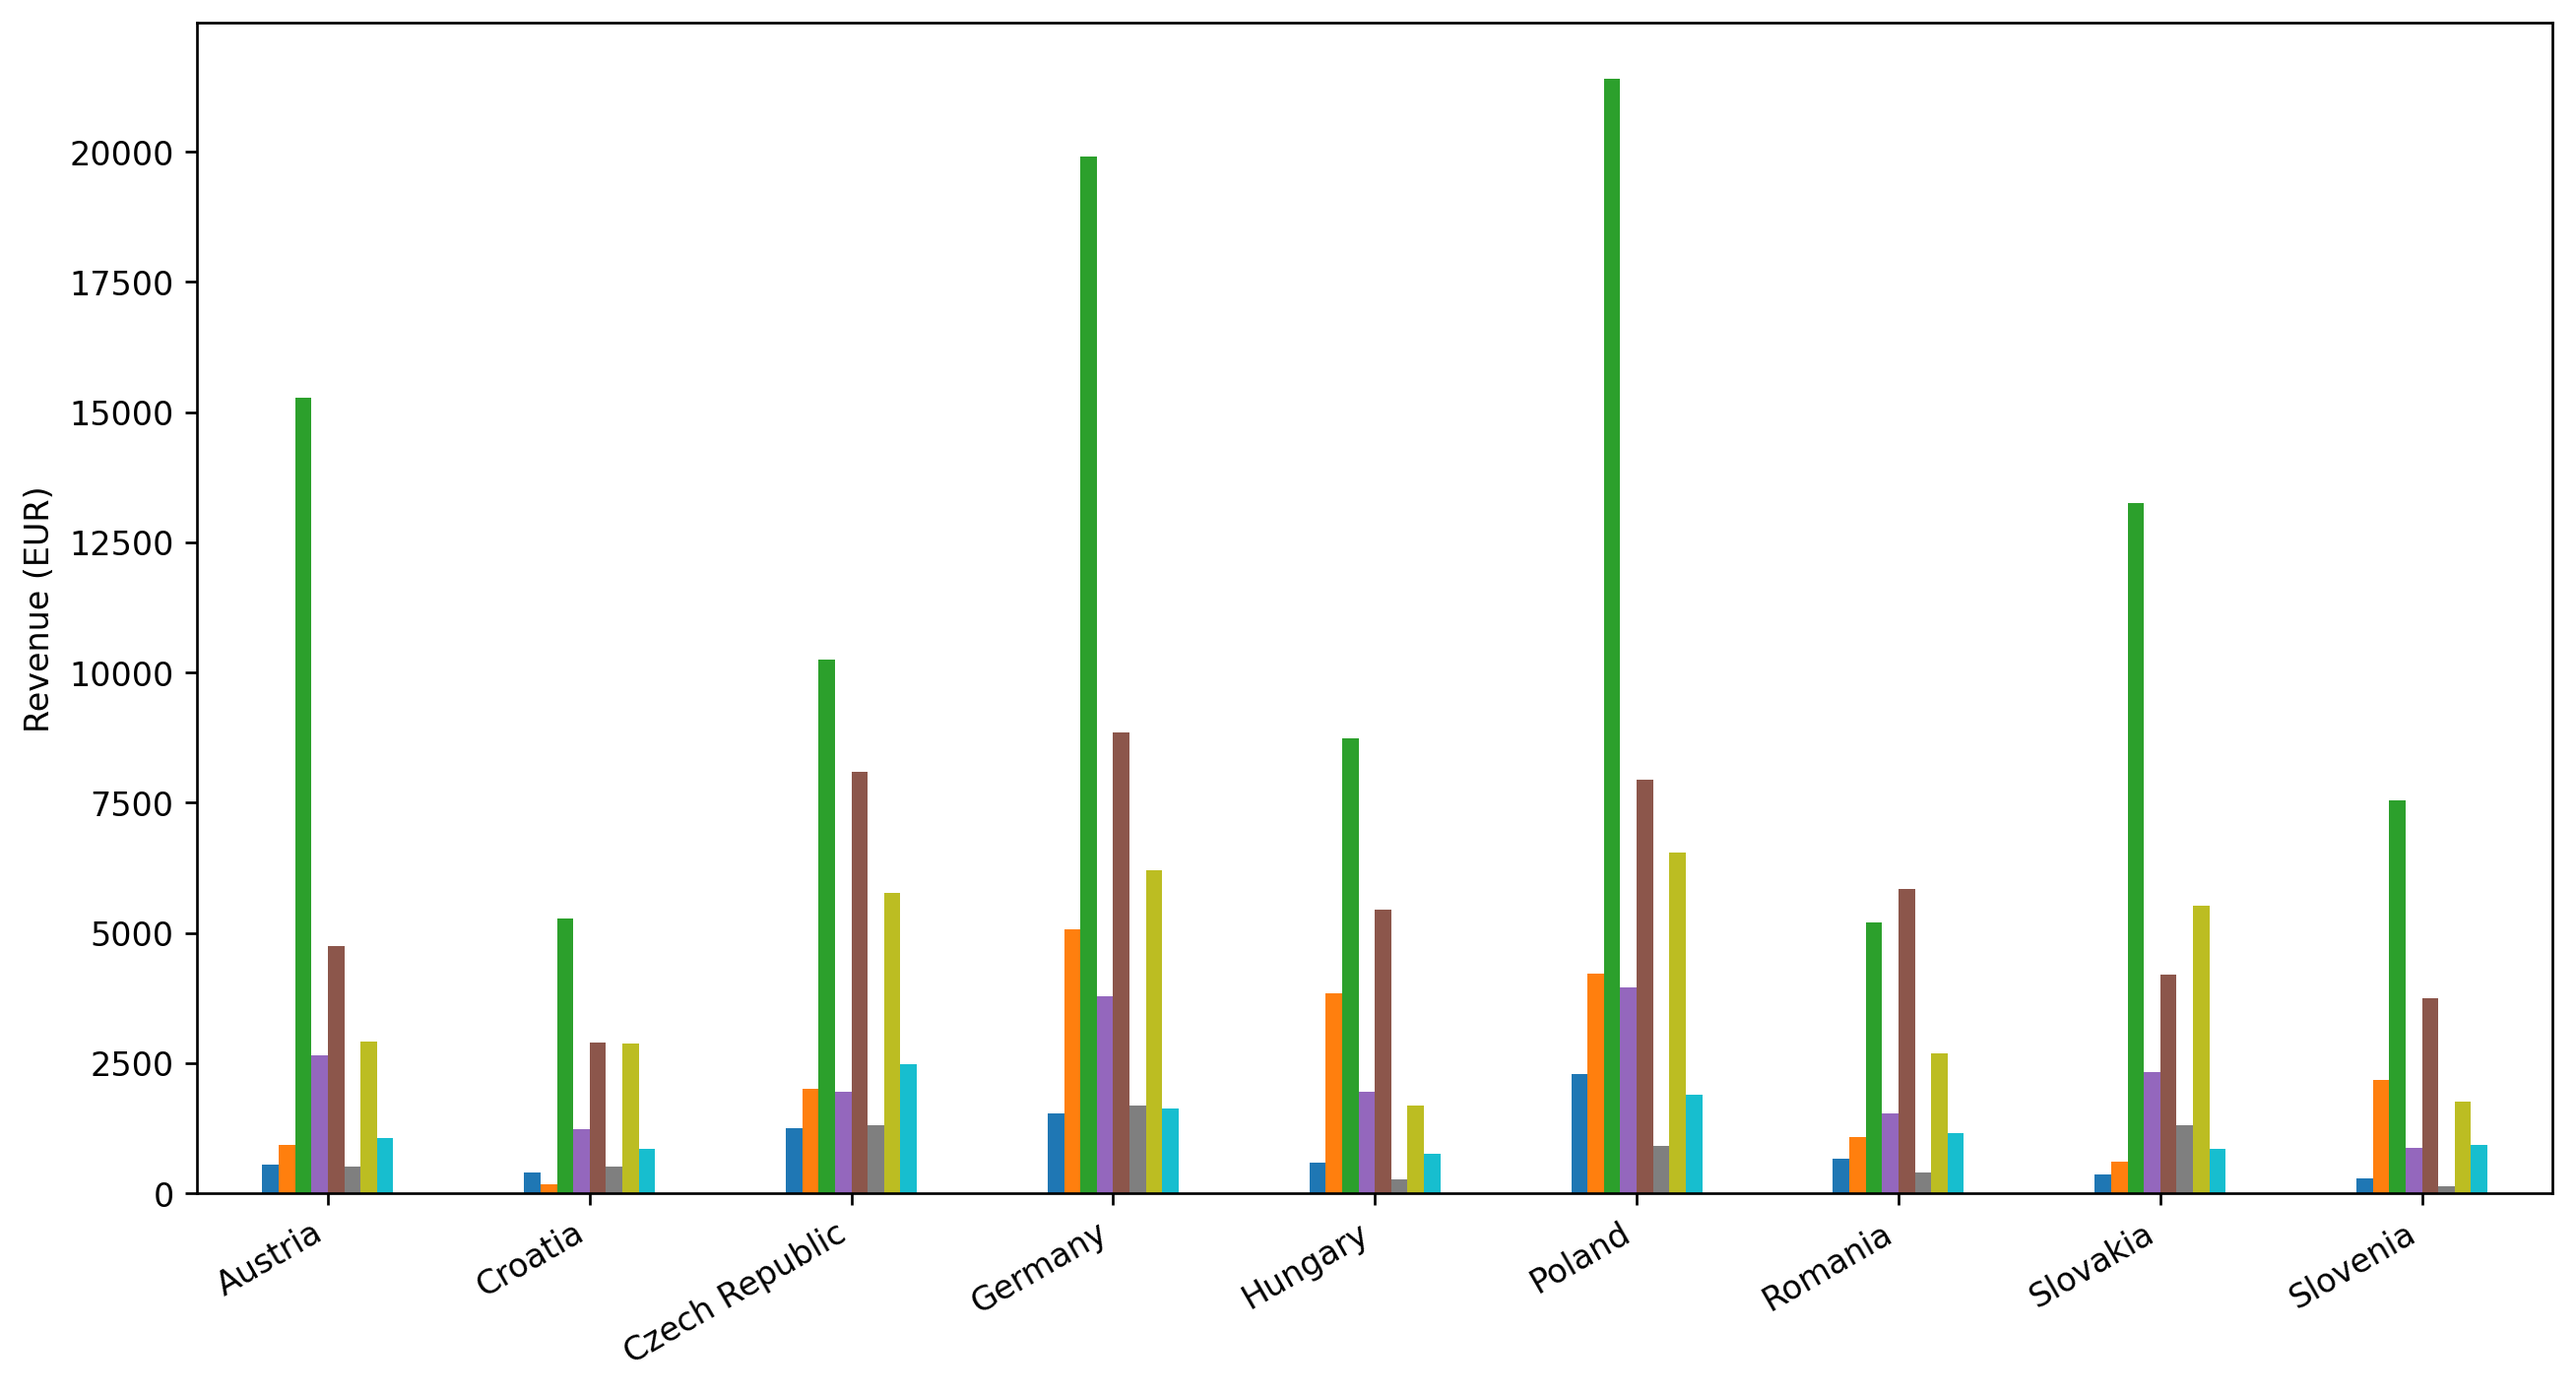
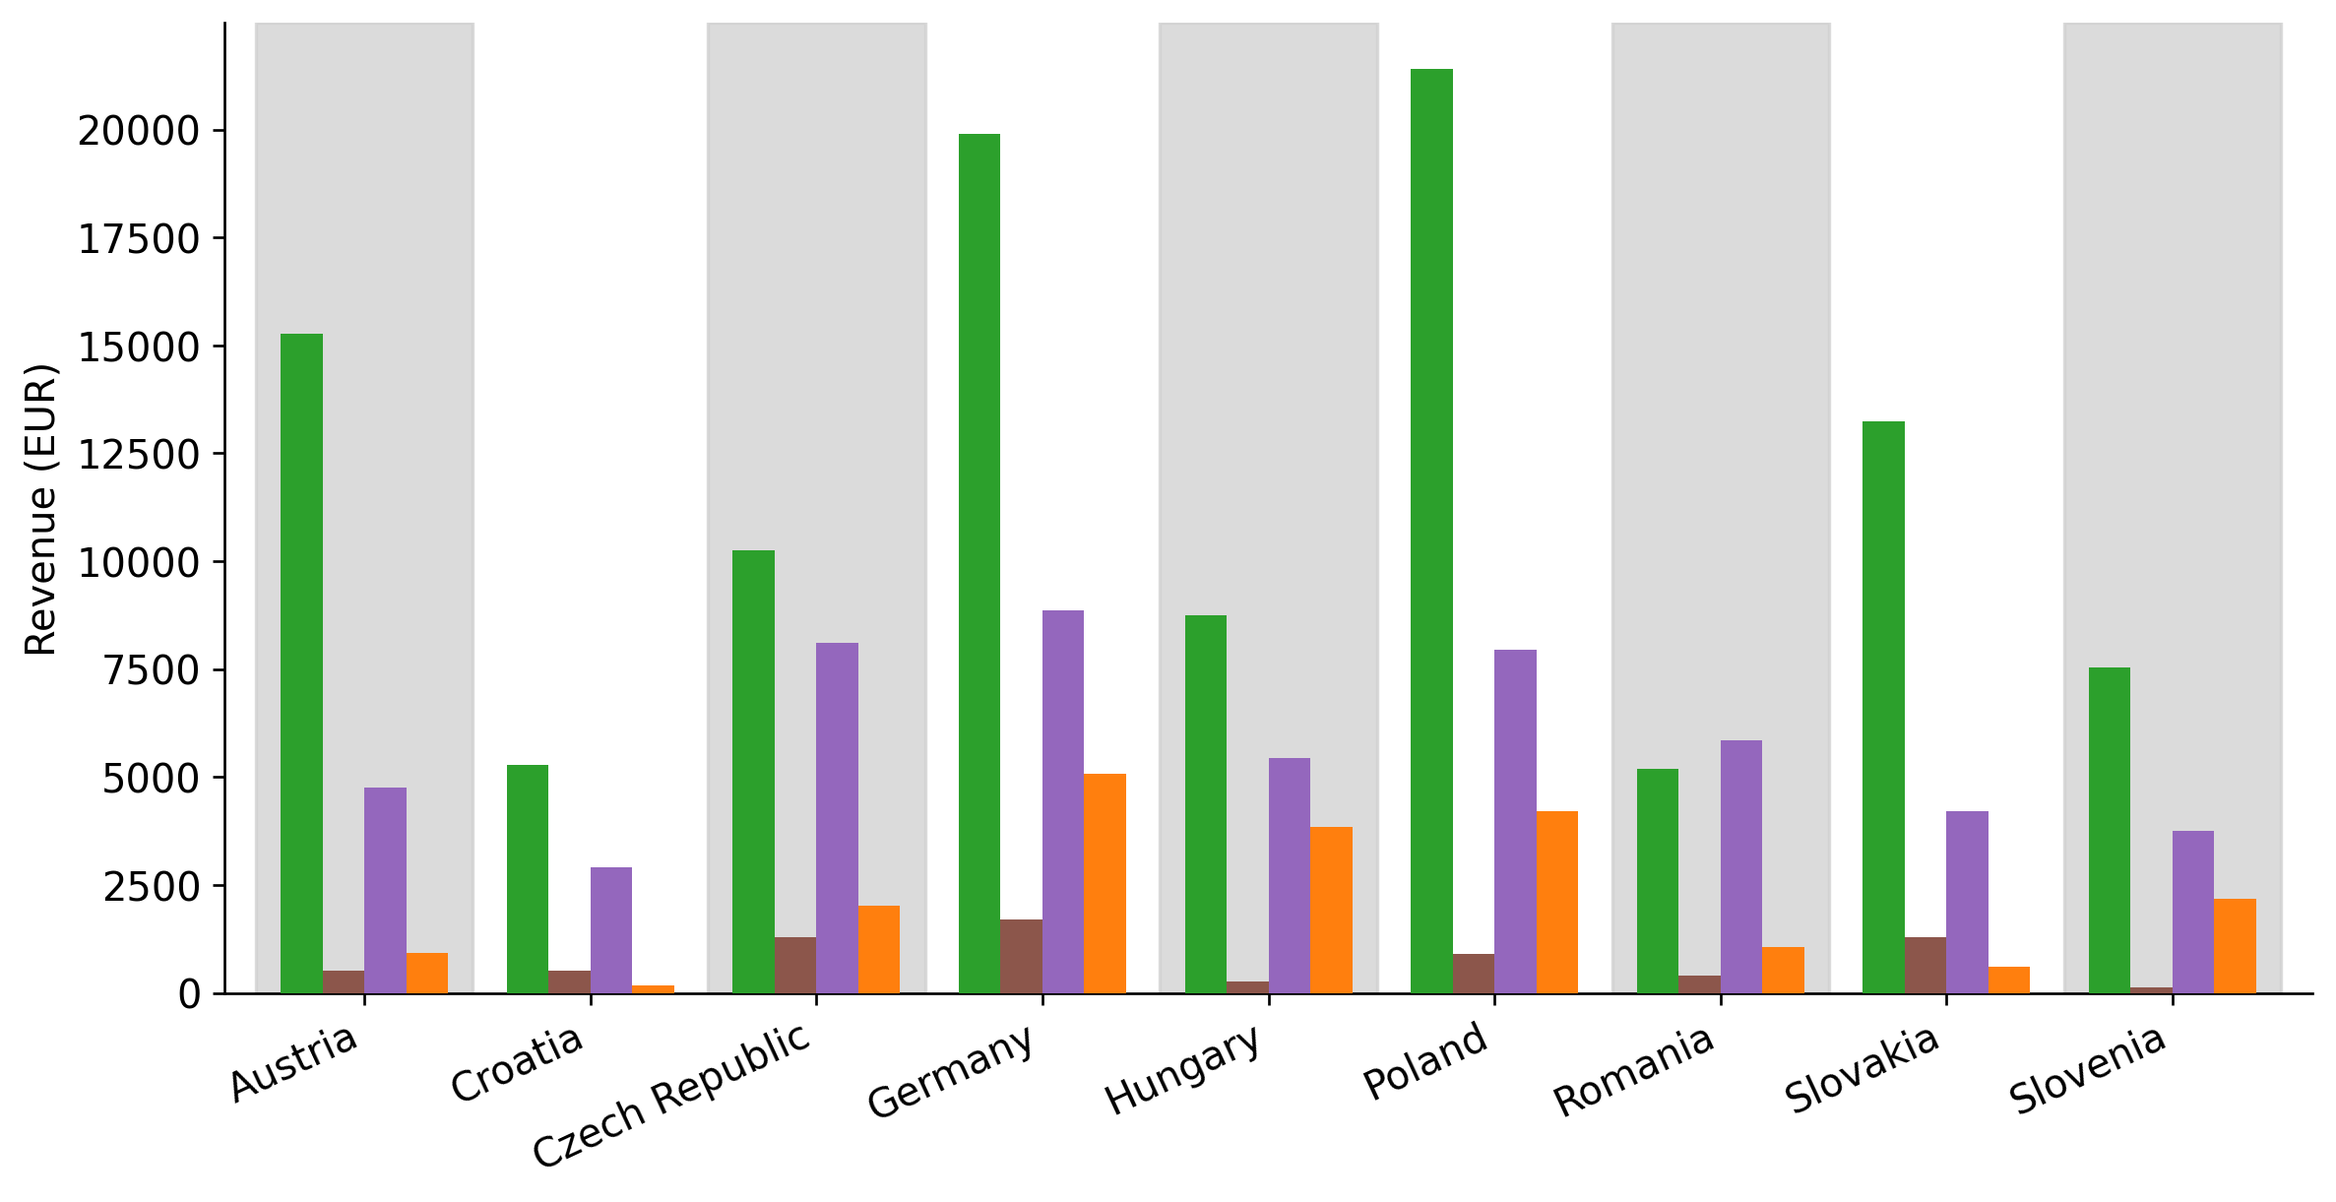
html - legenda grafu v sekcii category analysis css - legenda main.py uprava sekcie 18 graf

diff --git a/style.css b/style.css
@@ -171,7 +171,8 @@ tr:hover td {
 .charts-grid {
     display: grid;
     grid-template-columns: repeat(2, 1fr);
-    gap: 24px;
+    row-gap: 6px;
+    column-gap: 26px;
     margin-top: 24px;
 }
 
@@ -300,6 +301,42 @@ tr:hover td {
     width: 100%;
     border-radius: 10px;
     max-height: 480px;
+}
+
+.chart-legend {
+    display: inline-flex;
+    flex-wrap: wrap;
+    gap: 10px 16px;
+    margin-top: 0px;
+    padding: 12px 14px;
+    background: rgba(255, 255, 255, 0.88);
+    border: 1px solid #dbe3ea;
+    border-radius: 14px;
+    font-size: 0.85rem;
+    color: #334155;
+    width: fit-content;
+    margin-left: auto;
+    margin-right: auto;
+}
+
+.chart-legend span {
+    display: inline-flex;
+    align-items: center;
+    gap: 6px;
+}
+
+.chart-legend i {
+    width: 13px;
+    height: 13px;
+    border-radius: 4px;
+    display: inline-block;
+}
+
+.category-legend {
+    align-self: start;
+    justify-self: center;
+    height: fit-content;
+    margin-top: -8px;
 }
 
 .insight-box {

diff --git a/index.html b/index.html
@@ -128,7 +128,7 @@
     </div>
 
     <div class="chart-placeholder">
-        <h3>Marketplace Orders by Country</h3>
+        <h3>HEATMAP - Marketplace Orders by Country</h3>
         <img src="cleaned_data/17_heatmap_marketplace_country.png"
             alt="Marketplace Orders by Country Heatmap">
     </div>
@@ -265,7 +265,14 @@
                     <li>Germany dominated Electronics sales across marketplaces.</li>
                     <li>Accessories showed high sales volume but lower profitability.</li>
                 </ul>
-</div>
+            </div>
+
+            <div class="chart-legend category-legend legend-card">
+                <span><i style="background:#2ca02c;"></i> Laptops</span>
+                <span><i style="background:#8c564b;"></i> Speakers</span>
+                <span><i style="background:#9467bd;"></i> Phones</span>
+                <span><i style="background:#ff7f0e;"></i> Headphones</span>
+            </div>
 
         </div>
     </section>

diff --git a/main.py b/main.py
@@ -499,16 +499,46 @@ plt.close()
 print("✓ 17_heatmap_marketplace_country.png")
 
 # === 18. TOP CATEGORY BY COUNTRY ===
+top_categories = ["Laptops", "Speakers", "Phones", "Headphones"]
 cat_country = (
-    df.groupby(["country_name", "category"])["revenue"].sum().unstack(fill_value=0)
+    df[df["category"].isin(top_categories)]
+    .groupby(["country_name", "category"])["revenue"]
+    .sum()
+    .unstack(fill_value=0)
 )
-fig, ax = plt.subplots(figsize=(11, 6))
-cat_country.plot(kind="bar", ax=ax, colormap="tab10")
+cat_country = cat_country[top_categories]
+fig, ax = plt.subplots(figsize=(10, 5.2))
+category_colors = {
+    "Laptops": "#2ca02c",
+    "Speakers": "#8c564b",
+    "Phones": "#9467bd",
+    "Headphones": "#ff7f0e"
+}
+cat_country.plot(
+    kind="bar",
+    ax=ax,
+    color=[category_colors[col] for col in cat_country.columns],
+    width=0.74,
+    zorder=3
+)
 # ax.set_title("Revenue by Category per Country", fontsize=16, fontweight="bold")
 ax.get_legend().remove()
-ax.set_ylabel("Revenue (EUR)")
+ax.set_ylabel("Revenue (EUR)", fontsize=12)
 ax.set_xlabel("")
-plt.xticks(rotation=30, ha="right")
+ax.tick_params(axis="y", labelsize=12)
+ax.spines["top"].set_visible(False)
+ax.spines["right"].set_visible(False)
+ax.margins(x=0.02)
+plt.xticks(rotation=25, ha="right", fontsize=12)
+for i in range(len(cat_country.index)):
+    if i % 2 == 0:
+        ax.axvspan(
+            i - 0.48,
+            i + 0.48,
+            color="#cfcfcf",
+            alpha=0.75,
+            zorder=0
+        )
 # ax.legend(title="Category", bbox_to_anchor=(1.01, 1), loc="upper left", fontsize=8)
 plt.tight_layout()
 plt.savefig("cleaned_data/18_category_by_country.png", dpi=240, bbox_inches="tight")
